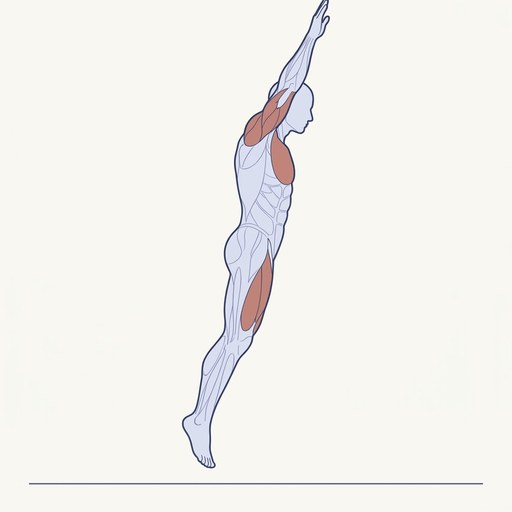
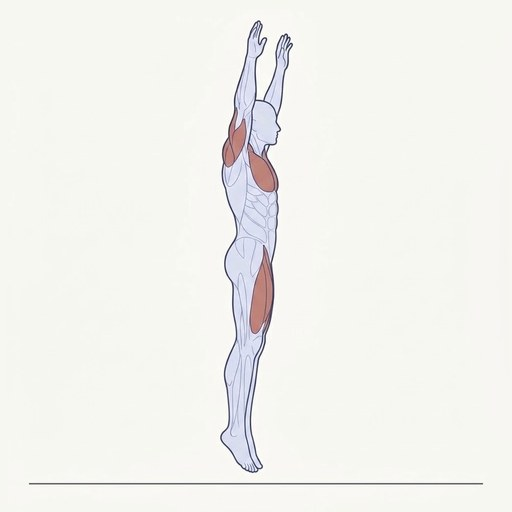
Burpee com salto vertical e quadros na mesma escala e fundo (#41)
* Abdução com elástico: sequência de 2 quadros no estilo do mapa do corpo

Claude-Session: https://claude.ai/code/session_01Sv1vTALhjnxdZq5wEp6vjZ

* Burpee em 5 quadros alinhados e na mesma escala; auditoria de quadros (chão, altura, cabeça) no tools/check.js

Claude-Session: https://claude.ai/code/session_01Sv1vTALhjnxdZq5wEp6vjZ

* Corrige quadros do burpee/abdução empilhados: faltava o CSS do .exfig na sequência

Claude-Session: https://claude.ai/code/session_01Sv1vTALhjnxdZq5wEp6vjZ

* Auditoria de quadros: compara cabeça-até-pé dos quadros em pé e marca o salto como pendente de refazer

Claude-Session: https://claude.ai/code/session_01Sv1vTALhjnxdZq5wEp6vjZ

* Burpee: salto novo vertical, quadros no mesmo fundo e escala; auditoria exige figura inteira na imagem

Claude-Session: https://claude.ai/code/session_01Sv1vTALhjnxdZq5wEp6vjZ

---------

Changed region(s): [[0.3438, 0.0, 0.6562, 0.9375]]

diff --git a/index.html b/index.html
@@ -1,5 +1,5 @@
 <!doctype html>
-<html lang="pt-BR"><head><meta charset="utf-8"><meta name="viewport" content="width=device-width,initial-scale=1,viewport-fit=cover"><meta name="app-ver" content="v60-20261107g"><script>(function(){try{var V="v60-20261107g";function ocupado(){var a=document.activeElement,l=document.getElementById("layer");return (a&&/^(INPUT|TEXTAREA|SELECT)$/.test(a.tagName))||(l&&l.children.length>0)}
+<html lang="pt-BR"><head><meta charset="utf-8"><meta name="viewport" content="width=device-width,initial-scale=1,viewport-fit=cover"><meta name="app-ver" content="v60-20261107h"><script>(function(){try{var V="v60-20261107h";function ocupado(){var a=document.activeElement,l=document.getElementById("layer");return (a&&/^(INPUT|TEXTAREA|SELECT)$/.test(a.tagName))||(l&&l.children.length>0)}
 function checa(){try{if(ocupado())return;fetch(location.pathname+"?_="+Date.now(),{cache:"no-store"}).then(function(r){return r.text()}).then(function(t){var m=t.match(/name="app-ver" content="([^"]+)"/);if(m&&m[1]!==V&&!ocupado()&&sessionStorage.getItem("frv")!==m[1]){sessionStorage.setItem("frv",m[1]);location.replace(location.pathname+"?v="+m[1]+location.hash)}}).catch(function(){})}catch(e){}}
 checa();document.addEventListener("visibilitychange",function(){if(!document.hidden)checa()});setInterval(checa,300000)}catch(e){}})()</script><meta name="theme-color" content="#27335F"><meta name="apple-mobile-web-app-capable" content="yes"><meta name="mobile-web-app-capable" content="yes"><meta name="apple-mobile-web-app-title" content="Frangômetro"><link rel="icon" href="icon.png"><link rel="apple-touch-icon" href="apple-touch-icon.png"><link rel="manifest" href="manifest.json"><style>:root{color-scheme:light;padding-top:env(safe-area-inset-top,0px);padding-bottom:env(safe-area-inset-bottom,0px)}body{margin:0;font:14px system-ui,sans-serif}img{max-width:100%}[hidden]{display:none!important}</style></head><body>
 <title>Frangômetro</title>

diff --git a/tools/frames.py b/tools/frames.py
@@ -49,7 +49,7 @@ def medir(path, seed):
     d[g - 4:g + 5, :] = False
     ys = np.where(d.any(1))[0]
     rc, cy = raio_cabeca(im, seed, g)
-    return dict(chao=g, altura=int(g - ys.min()), cabeca=rc, corpo=int(ys.max() - cy))
+    return dict(chao=g, altura=int(g - ys.min()), cabeca=rc, corpo=int(ys.max() - seed[1]), topo=int(ys.min()))
 
 def check():
     falhas = 0
@@ -58,18 +58,20 @@ def check():
         for q in s['quadros']:
             r = medir(os.path.join(AQUI, '..', 'ex', q['arq']), q['semente'])
             res.append((q['arq'], r))
-        base = np.median([r['cabeca'] for _, r in res])
+        base = np.median([r['cabeca'] for (a, r), q in zip(res, s['quadros']) if not q.get('cabeca_ocluida')])
         em_pe = [r['corpo'] for (a, r), q in zip(res, s['quadros']) if q.get('em_pe')]
         corpo0 = em_pe[0] if em_pe else None  # referência = 1º quadro em pé
         g0 = res[0][1]['chao']
         for arq, r in res:
             ok_g = abs(r['chao'] - g0) <= TOL_CHAO
-            ok_c = abs(r['cabeca'] - base) / base <= TOL_CABECA
+            q0 = next(q for q in s['quadros'] if q['arq'] == arq)
+            ok_c = q0.get('cabeca_ocluida') or abs(r['cabeca'] - base) / base <= TOL_CABECA
+            ok_t = r['topo'] >= 8  # figura inteira dentro da imagem (sem corte no topo)
             q = next(q for q in s['quadros'] if q['arq'] == arq)
             ok_b = True
             if q.get('em_pe') and corpo0:  # quadros em pé/salto: cabeça-até-pé igual (8%)
                 ok_b = abs(r['corpo'] - corpo0) / corpo0 <= TOL_CABECA
-            st = 'ok' if ok_g and ok_c and ok_b else 'FALHOU'
+            st = 'ok' if ok_g and ok_c and ok_b and ok_t else 'FALHOU'
             if st != 'ok' and q.get('pendente') and ok_g and ok_c: st = 'AVISO (pendente: quadro a refazer no Gemini)'
             elif st != 'ok': falhas += 1
             print(f"[{nome}] {arq}: chão {r['chao']} altura {r['altura']} cabeça r={r['cabeca']:.1f} (ref {base:.1f}) corpo {r['corpo']} {st}")
@@ -86,6 +88,8 @@ def build(src):
             gl = chao(np.array(im.convert('L')).astype(int))
             bg = np.median(a[5:40, 5:40].reshape(-1, 3), axis=0).astype(np.uint8)
             cor_linha = tuple(int(v) for v in a[gl, N // 2])
+            ALVO_BG = np.array(M.get('fundo', [247, 247, 242]))  # mesmo fundo em todos os quadros (sem piscar)
+            a = np.clip(a.astype(int) + (ALVO_BG - bg.astype(int)), 0, 255).astype(np.uint8); bg = ALVO_BG.astype(np.uint8)
             a[gl - 4:gl + 5, :] = bg   # apaga a linha original (redesenhada depois)
             sx, sy = q['semente_origem']
             # margem em volta (para girar sem cortar) ; (x, y) passam a ser + PAD
@@ -107,7 +111,7 @@ def build(src):
             sx = int(round(sx)); sy = int(round(sy))
             g = np.array(big0.convert('L')).astype(int)
             r, _ = raio_cabeca_g(g, (sx, sy), glp)
-            sc = ALVO_R / r * q.get('escala_extra', 1.0)
+            sc = q['escala_fixa'] if q.get('escala_fixa') else ALVO_R / r * q.get('escala_extra', 1.0)
             cx = (xs.min() + xs.max()) / 2 + PAD
             w = int(round(big0.size[0] * sc))
             big = big0.resize((w, w), Image.LANCZOS)
